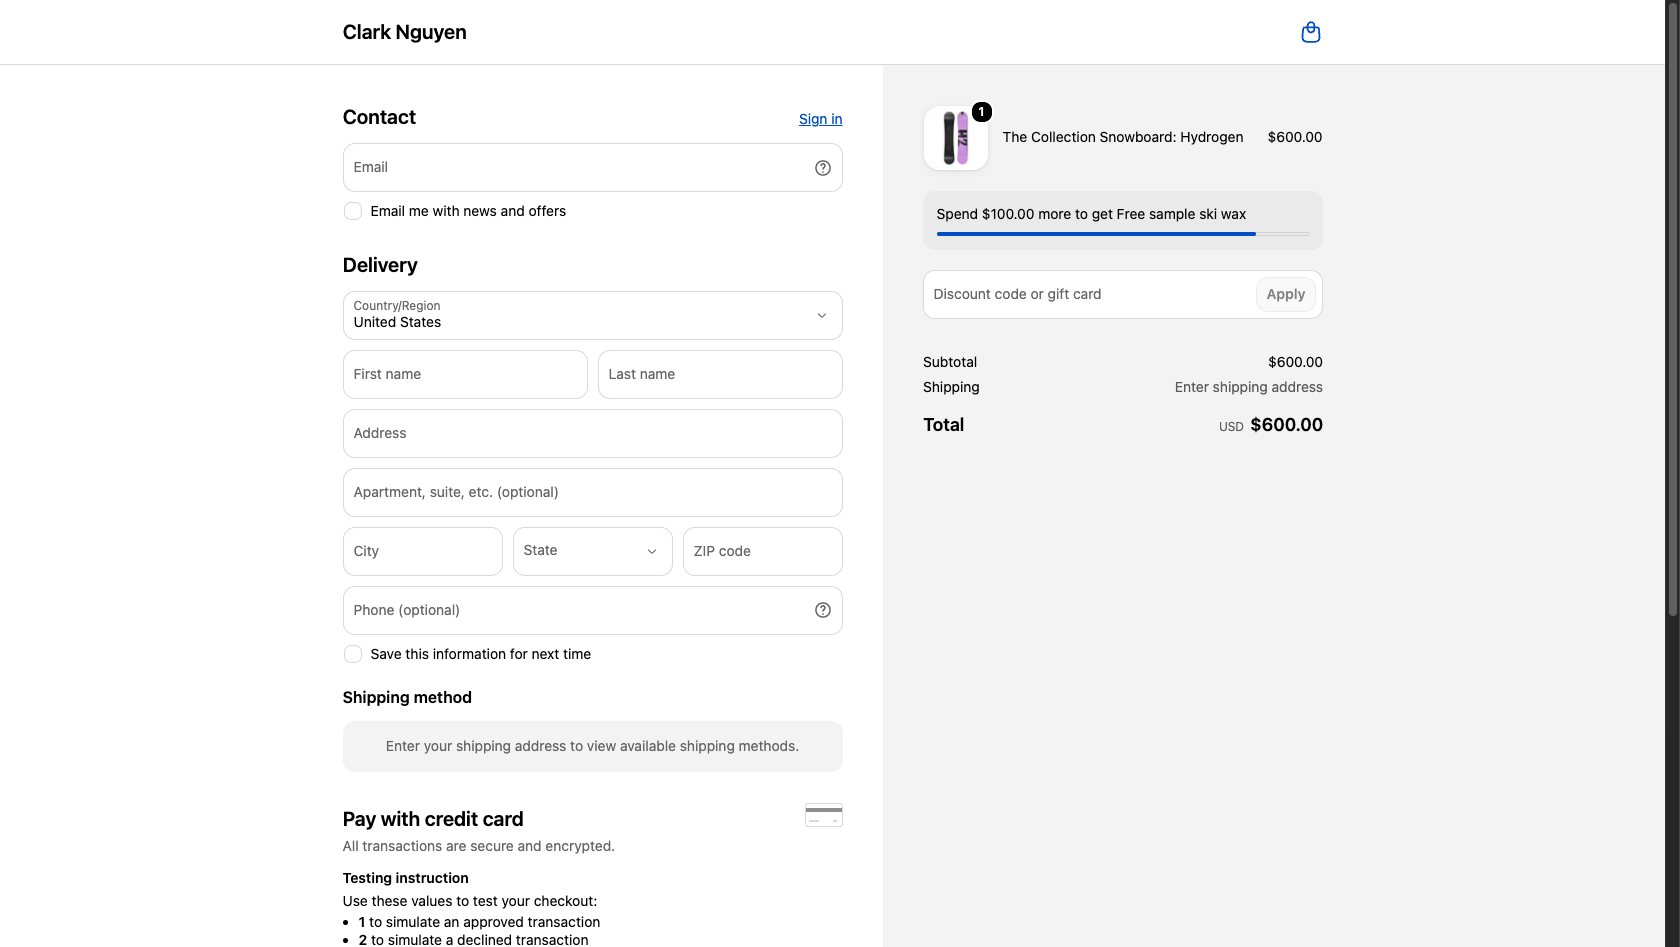
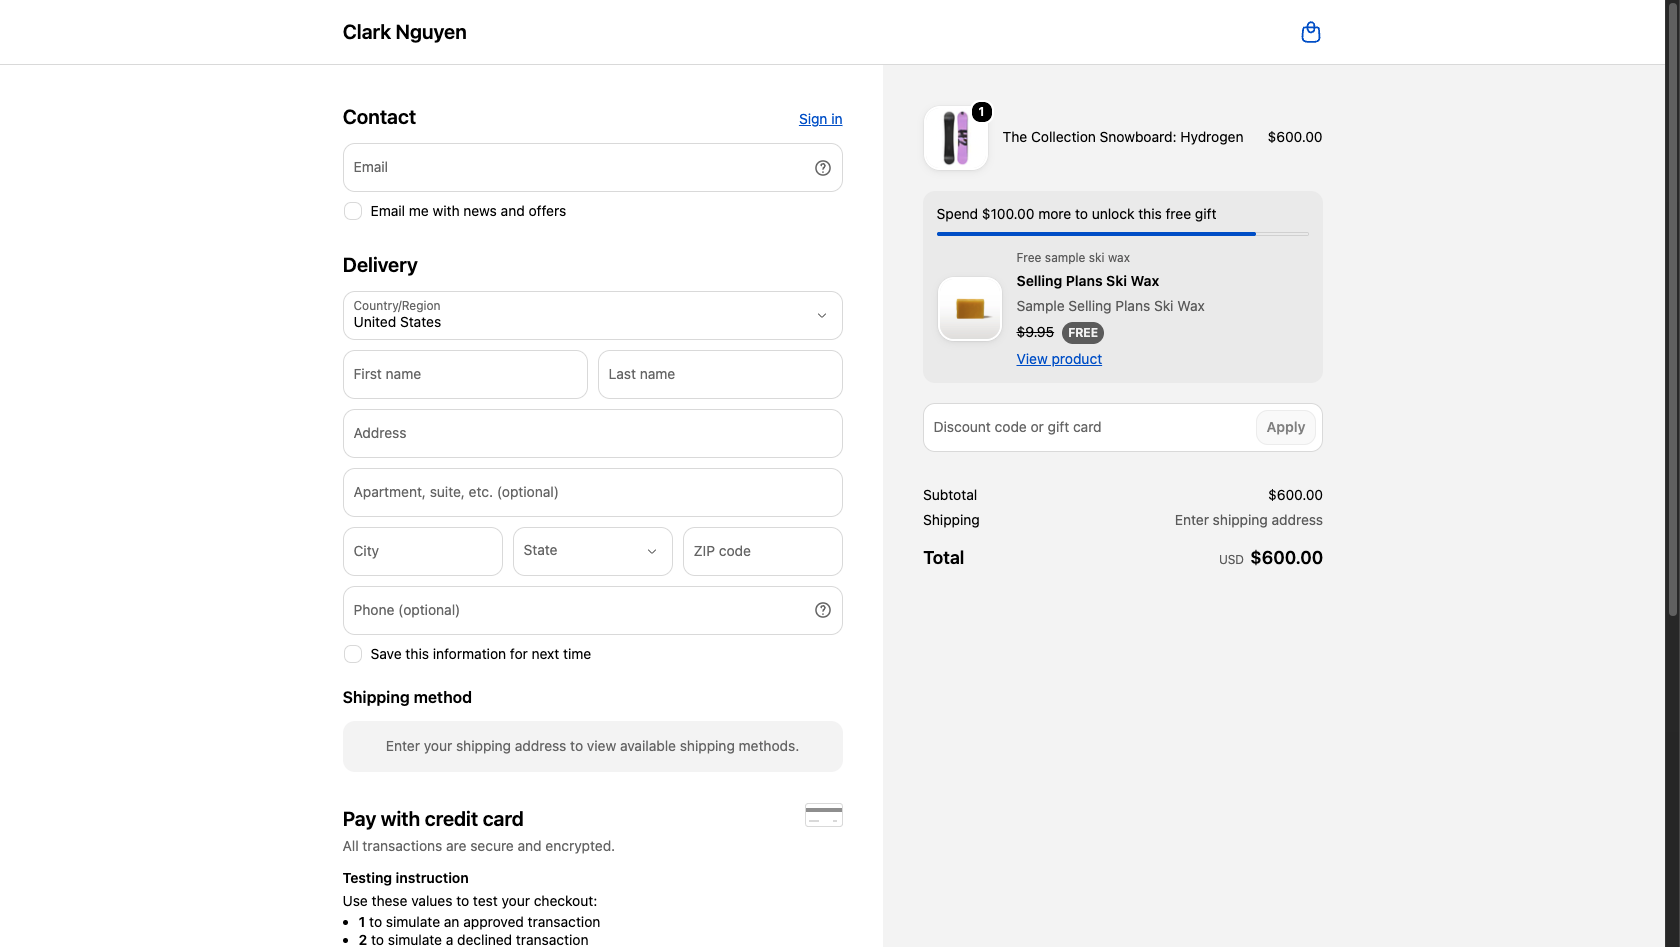
Update(free-gift): show gifts as product cards and add live demo links

diff --git a/extensions/free-gift-checkout/src/Checkout.tsx b/extensions/free-gift-checkout/src/Checkout.tsx
@@ -6,6 +6,7 @@ import {
   type CartChange,
   type CartLike,
   type GiftConfig,
+  type GiftRule,
   GIFT_ATTRIBUTE_KEY,
   eligibleRules,
   nextUnlock,
@@ -51,6 +52,7 @@ function Extension() {
   // we only act when the buyer pays in that currency. The Function still guards pricing.
   const active = config !== null && config.currencyCode === currencyCode;
   const cart = toCart(lines);
+  const gifts = useGiftProducts(active ? config : null);
 
   useEffect(() => {
     if (!config || !active || !canChangeLines || syncing.current) return;
@@ -126,6 +128,7 @@ function Extension() {
   const inCart = eligible.filter((rule) => cart.lines.some((line) => line.giftRuleId === rule.id));
   const removedByBuyer = eligible.filter((rule) => declined.has(rule.id));
   const progress = nextUnlock(config, cart);
+  const nextRule = progress ? config.rules.find((rule) => rule.id === progress.ruleId) : undefined;
   const t = shopify.i18n.translate;
 
   if (!canChangeLines) {
@@ -135,8 +138,12 @@ function Extension() {
   return (
     <s-stack gap="base">
       {inCart.length > 0 && (
-        <s-banner tone="success" heading={t('unlockedHeading')}>
-          <s-text>{inCart.map((rule) => rule.title).join(', ')}</s-text>
+        <s-banner tone="success" heading={t('unlockedHeading', {count: inCart.length})}>
+          <s-stack gap="base">
+            {inCart.map((rule) => (
+              <GiftCard key={rule.id} rule={rule} gift={gifts[rule.giftVariantId]} />
+            ))}
+          </s-stack>
         </s-banner>
       )}
       {removedByBuyer.map((rule) => (
@@ -149,21 +156,131 @@ function Extension() {
           </s-stack>
         </s-banner>
       ))}
-      {progress && (
+      {progress && nextRule && (
         <s-box padding="base" background="subdued" borderRadius="base">
-          <s-stack gap="small-200">
-            <s-text>
-              {t('spendMore', {
-                amount: shopify.i18n.formatCurrency(progress.remaining, {currency: currencyCode}),
-                gift: progress.title,
-              })}
-            </s-text>
-            <s-progress value={progress.ratio} max={1} accessibilityLabel={t('progressLabel')} />
+          <s-stack gap="base">
+            <s-stack gap="small-200">
+              <s-text>
+                {t('spendMore', {
+                  amount: shopify.i18n.formatCurrency(progress.remaining, {currency: currencyCode}),
+                })}
+              </s-text>
+              <s-progress value={progress.ratio} max={1} accessibilityLabel={t('progressLabel')} />
+            </s-stack>
+            <GiftCard rule={nextRule} gift={gifts[nextRule.giftVariantId]} />
           </s-stack>
         </s-box>
       )}
     </s-stack>
   );
+}
+
+interface GiftProduct {
+  productTitle: string;
+  variantTitle: string;
+  imageUrl: string | null;
+  imageAlt: string;
+  price: number;
+  currencyCode: string;
+  url: string | null;
+}
+
+/** The gift as a product: image, name, crossed-out price, FREE, and a link to its page. */
+function GiftCard({rule, gift}: {rule: GiftRule; gift?: GiftProduct}) {
+  const t = shopify.i18n.translate;
+  const showVariant = gift && gift.variantTitle && gift.variantTitle !== 'Default Title';
+
+  return (
+    <s-stack direction="inline" gap="base" alignItems="center">
+      <s-product-thumbnail src={gift?.imageUrl ?? undefined} alt={gift?.imageAlt ?? rule.title} size="base" />
+      <s-stack gap="small-300">
+        {gift && (
+          <s-text type="small" color="subdued">
+            {rule.title}
+          </s-text>
+        )}
+        <s-text type="strong">{gift?.productTitle ?? rule.title}</s-text>
+        {showVariant && <s-text color="subdued">{gift.variantTitle}</s-text>}
+        <s-stack direction="inline" gap="small-200" alignItems="center">
+          {gift && (
+            <s-text type="redundant">{shopify.i18n.formatCurrency(gift.price, {currency: gift.currencyCode})}</s-text>
+          )}
+          <s-badge>{t('free')}</s-badge>
+        </s-stack>
+        {gift?.url && (
+          <s-link href={gift.url} target="_blank">
+            {t('viewProduct')}
+          </s-link>
+        )}
+      </s-stack>
+    </s-stack>
+  );
+}
+
+const GIFT_PRODUCTS_QUERY = `query GiftProducts($ids: [ID!]!) {
+  nodes(ids: $ids) {
+    ... on ProductVariant {
+      id
+      title
+      image { url altText }
+      price { amount currencyCode }
+      product { title handle onlineStoreUrl featuredImage { url altText } }
+    }
+  }
+}`;
+
+interface GiftProductsData {
+  nodes: Array<{
+    id: string;
+    title: string;
+    image: {url: string; altText: string | null} | null;
+    price: {amount: string; currencyCode: string};
+    product: {
+      title: string;
+      handle: string;
+      onlineStoreUrl: string | null;
+      featuredImage: {url: string; altText: string | null} | null;
+    };
+  } | null>;
+}
+
+/** Product details for every gift in the config, keyed by variant id (Storefront API, once per config). */
+function useGiftProducts(config: GiftConfig | null): Record<string, GiftProduct> {
+  const [products, setProducts] = useState<Record<string, GiftProduct>>({});
+  const ids = config ? [...new Set(config.rules.map((rule) => rule.giftVariantId))].sort() : [];
+  const key = ids.join(',');
+
+  useEffect(() => {
+    if (ids.length === 0) return;
+    shopify
+      .query<GiftProductsData>(GIFT_PRODUCTS_QUERY, {variables: {ids}})
+      .then(({data}) => {
+        const next: Record<string, GiftProduct> = {};
+        for (const node of data?.nodes ?? []) {
+          if (!node) continue;
+          const image = node.image ?? node.product.featuredImage;
+          next[node.id] = {
+            productTitle: node.product.title,
+            variantTitle: node.title,
+            imageUrl: image?.url ?? null,
+            imageAlt: image?.altText ?? node.product.title,
+            price: Number(node.price.amount),
+            currencyCode: node.price.currencyCode,
+            url: node.product.onlineStoreUrl ?? productUrl(node.product.handle),
+          };
+        }
+        setProducts(next);
+      })
+      .catch((error) => console.error('[free-gift] gift products query failed', error));
+  }, [key]);
+
+  return products;
+}
+
+/** `onlineStoreUrl` is null while a store is password-protected; fall back to the storefront domain + handle. */
+function productUrl(handle: string): string | null {
+  const base = shopify.shop.storefrontUrl ?? `https://${shopify.shop.myshopifyDomain}`;
+  return handle ? `${base.replace(/\/$/, '')}/products/${handle}` : null;
 }
 
 function readConfig(): GiftConfig | null {

diff --git a/README.md b/README.md
@@ -7,15 +7,30 @@ Small, production-style demos of **Checkout UI Extensions** and **Shopify Functi
 
 A free gift that adds itself in checkout and **can't be abused**: the checkout extension
 adds the gift line, and a discount Function independently re-checks the rules before
-making it free.
+making it free. Every gift is shown as a product card — image, name, crossed-out price,
+**FREE**, and a link to the product page — both once unlocked and as the next reward
+under the "spend $X more" bar.
+
+### ▶ Live demo
+
+Shopify Plus development store. The first time, Shopify asks for the store password
+**`ohsteg`** — enter it, then click the link again to land in checkout with that cart
+(test store, no real payment).
+
+| Try | Cart | What you should see |
+|---|---|---|
+| [Not there yet](https://clark-nguyen.myshopify.com/cart/53264714432794:1) | $600 snowboard | "Spend $100.00 more" + the gift you'll unlock |
+| [Tier 1](https://clark-nguyen.myshopify.com/cart/53264714858778:1) | $885.95 snowboard | Sample wax added for free, next tier shown |
+| [Complex rule](https://clark-nguyen.myshopify.com/cart/53264714629402:2) | 2× Complete snowboard | Bundle wax + sample wax, both free |
+| [Tier 2 + rule branch 2](https://clark-nguyen.myshopify.com/cart/53264715219226:1,53264714432794:1,53264715546906:1) | 3 snowboards, $2,374.95 | Special wax replaces sample wax; bundle wax via the "$2,000 + Hydrogen" branch |
 
 | Under the threshold | Tier 1 unlocked |
 |---|---|
 | ![Progress bar](docs/screenshots/00-progress.png) | ![Tier 1](docs/screenshots/01-tier-1-unlocked.png) |
 
-| Complex rule + tier 1 | Tier 2 replaces tier 1, complex rule excluded |
+| Complex rule + tier 1 | Tier 2 + complex rule ("$2,000 + Hydrogen" branch) |
 |---|---|
-| ![Complex rule](docs/screenshots/02-complex-rule-and-tier-1.png) | ![Tier 2](docs/screenshots/03-tier-2-exclusion.png) |
+| ![Complex rule](docs/screenshots/02-complex-rule-and-tier-1.png) | ![Tier 2](docs/screenshots/03-tier-2-and-rule-branch-2.png) |
 
 ### What it handles
 
@@ -50,7 +65,8 @@ flowchart LR
   writable only by the app.
 - **Extension** (`extensions/free-gift-checkout`) — plans the cart changes, applies them one at a
   time (parallel cart changes trip checkout's change throttle), and re-plans from the real `lines`
-  after every update instead of blindly retrying a failed call.
+  after every update instead of blindly retrying a failed call. Gift product cards come from one
+  Storefront API query per config (`api_access`).
 - **Function** (`extensions/free-gift-discount`) — `cart.lines.discounts.generate.run`; the
   source of truth for price.
 
@@ -102,7 +118,7 @@ shopify app execute --store <store> --query-file scripts/set-config.graphql \
 shopify app execute --store <store> --query-file scripts/create-discount.graphql
 ```
 
-Then add the **free-gift-checkout** block under the line items in the checkout editor.
+Then in the checkout editor open **Apps → free-gift-checkout → Add block** and save. After `shopify app deploy`, re-run `create-discount.graphql` if the discount was created against a dev preview (cleaning a dev preview deletes it).
 
 ### Known limits
 
